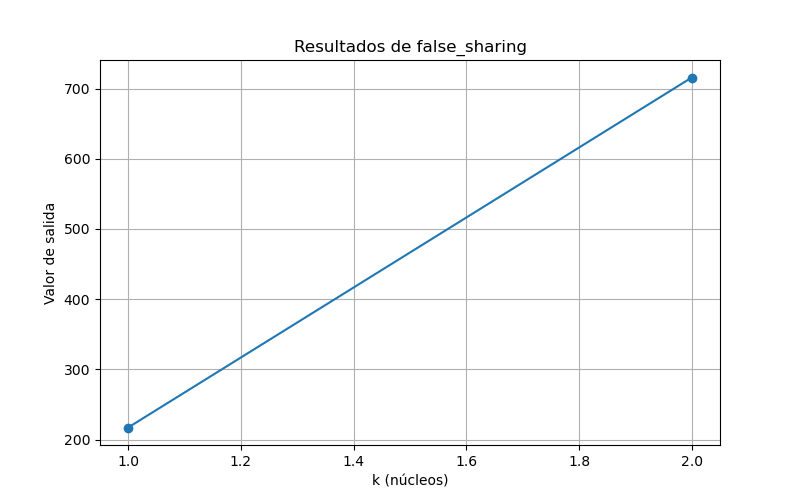
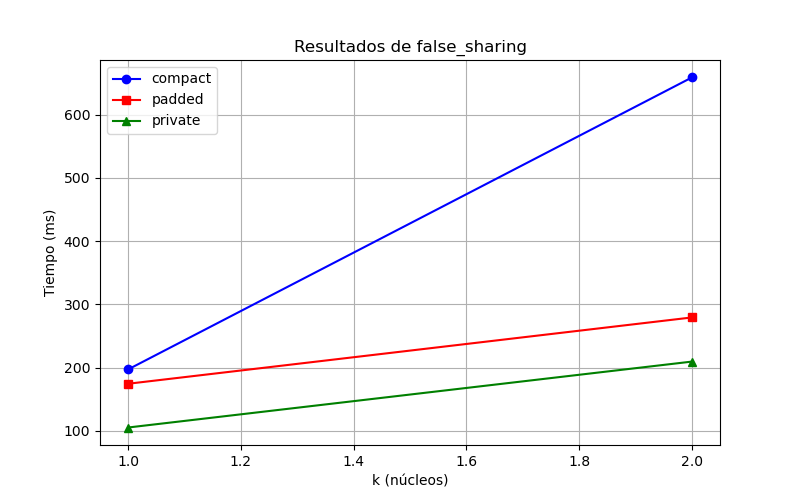
Actualizar gráfica y script de resultados

diff --git a/Act2/false_sharing/false_sharing_grafica.py b/Act2/false_sharing/false_sharing_grafica.py
@@ -12,36 +12,52 @@ except Exception as e:
     print(f"Error detectando núcleos: {e}")
     max_cores = 4  # valor por defecto
 
+
 ks = list(range(1, max_cores + 1))
-valores = []
+compact_vals = []
+padded_vals = []
+private_vals = []
 
-
-# Extraer el tiempo de la variante compact de la salida
 import re
 
 for k in ks:
     try:
         output = subprocess.check_output([EXEC_PATH, str(k)])
         lines = output.decode().strip().split('\n')
-        # Buscar la línea que contiene 'compact'
-        tiempo = float('nan')
+        tiempo_compact = float('nan')
+        tiempo_padded = float('nan')
+        tiempo_private = float('nan')
         for line in lines:
             if 'compact' in line:
                 match = re.search(r'compact\s+([\d\.eE+-]+)', line)
                 if match:
-                    tiempo = float(match.group(1))
-                    break
-        valores.append(tiempo)
-        print(f"k={k}: {tiempo}")
+                    tiempo_compact = float(match.group(1))
+            if 'padded' in line:
+                match = re.search(r'padded\s+([\d\.eE+-]+)', line)
+                if match:
+                    tiempo_padded = float(match.group(1))
+            if 'private' in line:
+                match = re.search(r'private\s+([\d\.eE+-]+)', line)
+                if match:
+                    tiempo_private = float(match.group(1))
+        compact_vals.append(tiempo_compact)
+        padded_vals.append(tiempo_padded)
+        private_vals.append(tiempo_private)
+        print(f"k={k}: compact={tiempo_compact}, padded={tiempo_padded}, private={tiempo_private}")
     except Exception as e:
         print(f"Error ejecutando k={k}: {e}")
-        valores.append(float('nan'))
+        compact_vals.append(float('nan'))
+        padded_vals.append(float('nan'))
+        private_vals.append(float('nan'))
 
 plt.figure(figsize=(8,5))
-plt.plot(ks, valores, marker='o')
+plt.plot(ks, compact_vals, marker='o', label='compact', color='blue')
+plt.plot(ks, padded_vals, marker='s', label='padded', color='red')
+plt.plot(ks, private_vals, marker='^', label='private', color='green')
 plt.xlabel('k (núcleos)')
-plt.ylabel('Valor de salida')
+plt.ylabel('Tiempo (ms)')
 plt.title('Resultados de false_sharing')
+plt.legend()
 plt.grid(True)
 plt.savefig('false_sharing_resultados.png')
 plt.show()
